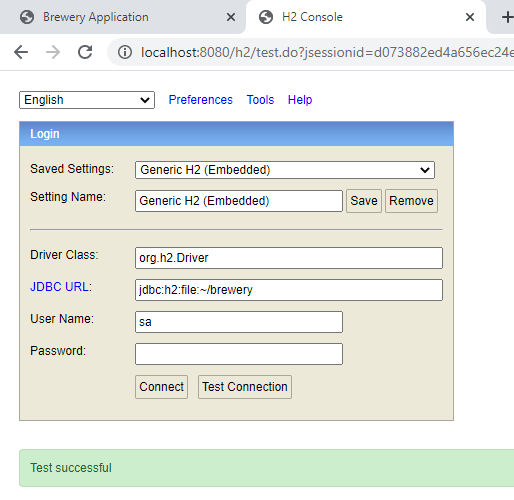
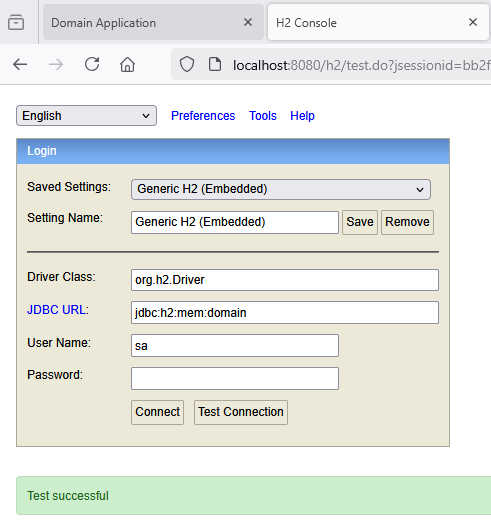
H2 Console Security Fixes and associated unit test corrections

diff --git a/src/test/java/com/domain/controller/UiControllerTest.java b/src/test/java/com/domain/controller/UiControllerTest.java
@@ -21,6 +21,7 @@ import org.mockito.MockedStatic;
 import org.slf4j.Logger;
 import org.slf4j.LoggerFactory;
 import org.springframework.beans.factory.annotation.Autowired;
+import org.springframework.boot.autoconfigure.h2.H2ConsoleProperties;
 import org.springframework.boot.test.autoconfigure.properties.PropertyMapping;
 import org.springframework.boot.test.autoconfigure.web.servlet.AutoConfigureMockMvc;
 import org.springframework.boot.test.context.SpringBootTest;
@@ -32,6 +33,7 @@ import org.springframework.security.core.context.SecurityContextHolder;
 import org.springframework.security.core.userdetails.UserDetails;
 import org.springframework.security.crypto.password.PasswordEncoder;
 import org.springframework.security.test.context.support.WithMockUser;
+import org.springframework.security.web.SecurityFilterChain;
 import org.springframework.data.domain.Page;
 import org.springframework.data.domain.PageImpl;
 import org.springframework.test.context.TestPropertySource;
@@ -92,7 +94,10 @@ class UiControllerTest {
 	
 	@MockBean
 	JavaMailSender mailSender;
-
+	
+	@MockBean
+	H2ConsoleProperties h2ConsoleProperties;
+	
 	//
 	//	Index Dash board tests 
 	//
@@ -1328,7 +1333,7 @@ class UiControllerTest {
 		LOG.info( "Test saveNewUser: " + user );
 		
 		mockMvc.perform(MockMvcRequestBuilders.post("http://localhost:" + port + "/user/password/0")
-				.with(csrf())
+				.with(csrf( ))
 				.contentType(MediaType.APPLICATION_FORM_URLENCODED)
 	            .content(buildUrlEncodedFormEntity(
 	                "username", user.getUsername(), 

diff --git a/src/main/java/com/domain/config/WebSecurityConfig.java b/src/main/java/com/domain/config/WebSecurityConfig.java
@@ -1,5 +1,7 @@
 package com.domain.config;
 
+import static org.springframework.boot.autoconfigure.security.servlet.PathRequest.toH2Console; 
+
 import java.security.SecureRandom;
 
 import javax.sql.DataSource;
@@ -85,24 +87,30 @@ public class WebSecurityConfig{
     		LOG.info("configure: " + http.toString() );		
     		http
     			.authorizeHttpRequests( auth -> auth 
+        			.requestMatchers(toH2Console()).permitAll()
     				.requestMatchers( "/css/**", "/js/**", "/webjars/**", "/images/**", "/validate/**", "/password/**", "/passwordReset/**" ).permitAll()	
     				.requestMatchers( "/category/**", "/process/**", "/measureType/**", "/batch/**", "/measurement/**", "/sensor/**", "/domain/**", "/user/**"  ).hasRole( "ADMIN" )
     				.requestMatchers( "/**", "/profile/**" ).hasAnyRole( "ADMIN", "USER" )
     			)
+    			.csrf(csrf -> csrf .ignoringRequestMatchers(toH2Console()))
+    			.headers(headers -> headers.frameOptions().sameOrigin())
     			.formLogin()
     				.loginPage("/login")
     				.permitAll()
     				.and()
     			.logout()
-    				.permitAll();
+    				.permitAll()
+    				;
     		http.cors();
     		return http.build();
     	}        
-        
+             
         @Bean
         public WebSecurityCustomizer webSecurityCustomizer() {
-            return (web) -> web.ignoring().requestMatchers( "/h2/**", "/swagger-ui**" );
+            return (web) -> web.ignoring().requestMatchers( "/swagger-ui**" );
         }    	
+        
+        
     }
     
 }

diff --git a/src/test/java/com/domain/controller/UiController2Test.java b/src/test/java/com/domain/controller/UiController2Test.java
@@ -5,6 +5,7 @@ import static org.springframework.security.test.web.servlet.request.SecurityMock
 import org.junit.jupiter.api.Test;
 import org.mockito.Mockito;
 import org.springframework.beans.factory.annotation.Autowired;
+import org.springframework.boot.autoconfigure.h2.H2ConsoleProperties;
 import org.springframework.boot.test.autoconfigure.web.servlet.AutoConfigureMockMvc;
 import org.springframework.boot.test.context.SpringBootTest;
 import org.springframework.boot.test.mock.mockito.MockBean;
@@ -46,6 +47,9 @@ class UiController2Test {
 
 	@MockBean
 	JavaMailSender mailSender;
+	
+	@MockBean
+	H2ConsoleProperties h2ConsoleProperties;
 	
 	@Test
 	@WithMockUser(roles = "ADMIN")

diff --git a/src/main/java/com/domain/model/User.java b/src/main/java/com/domain/model/User.java
@@ -11,7 +11,7 @@ import jakarta.persistence.Table;
 import jakarta.persistence.Column;
 
 @Entity
-@Table(name = "user", schema="domain")
+@Table(name = "users", schema="domain")
 public class User {
 
     @Id
